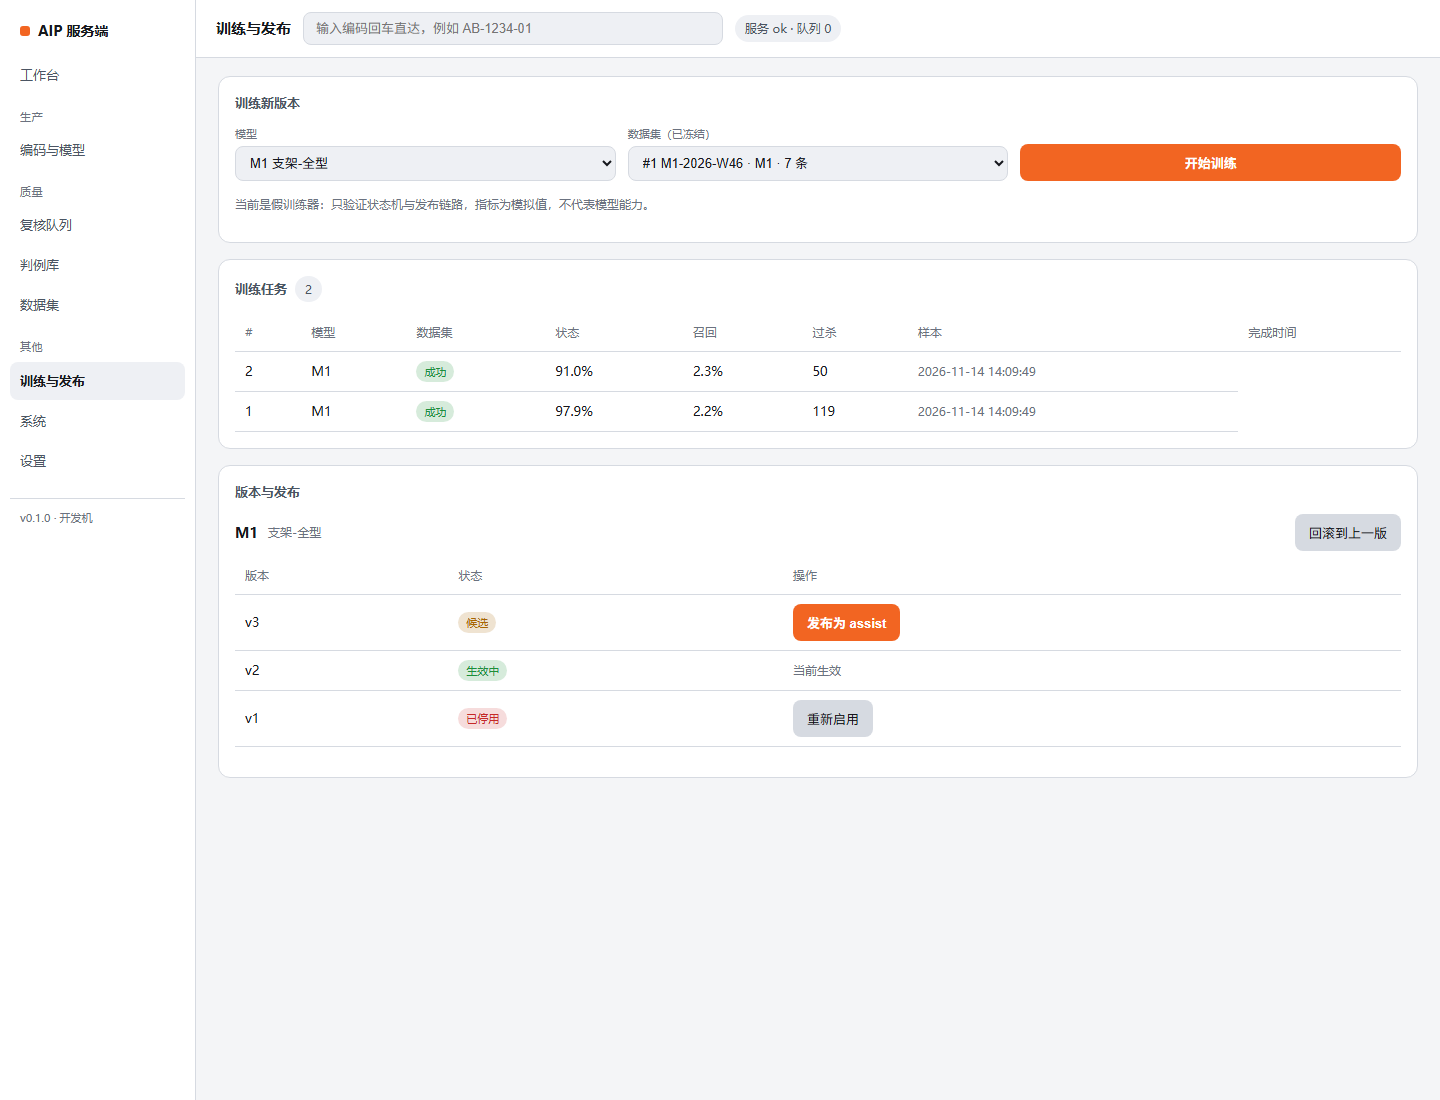
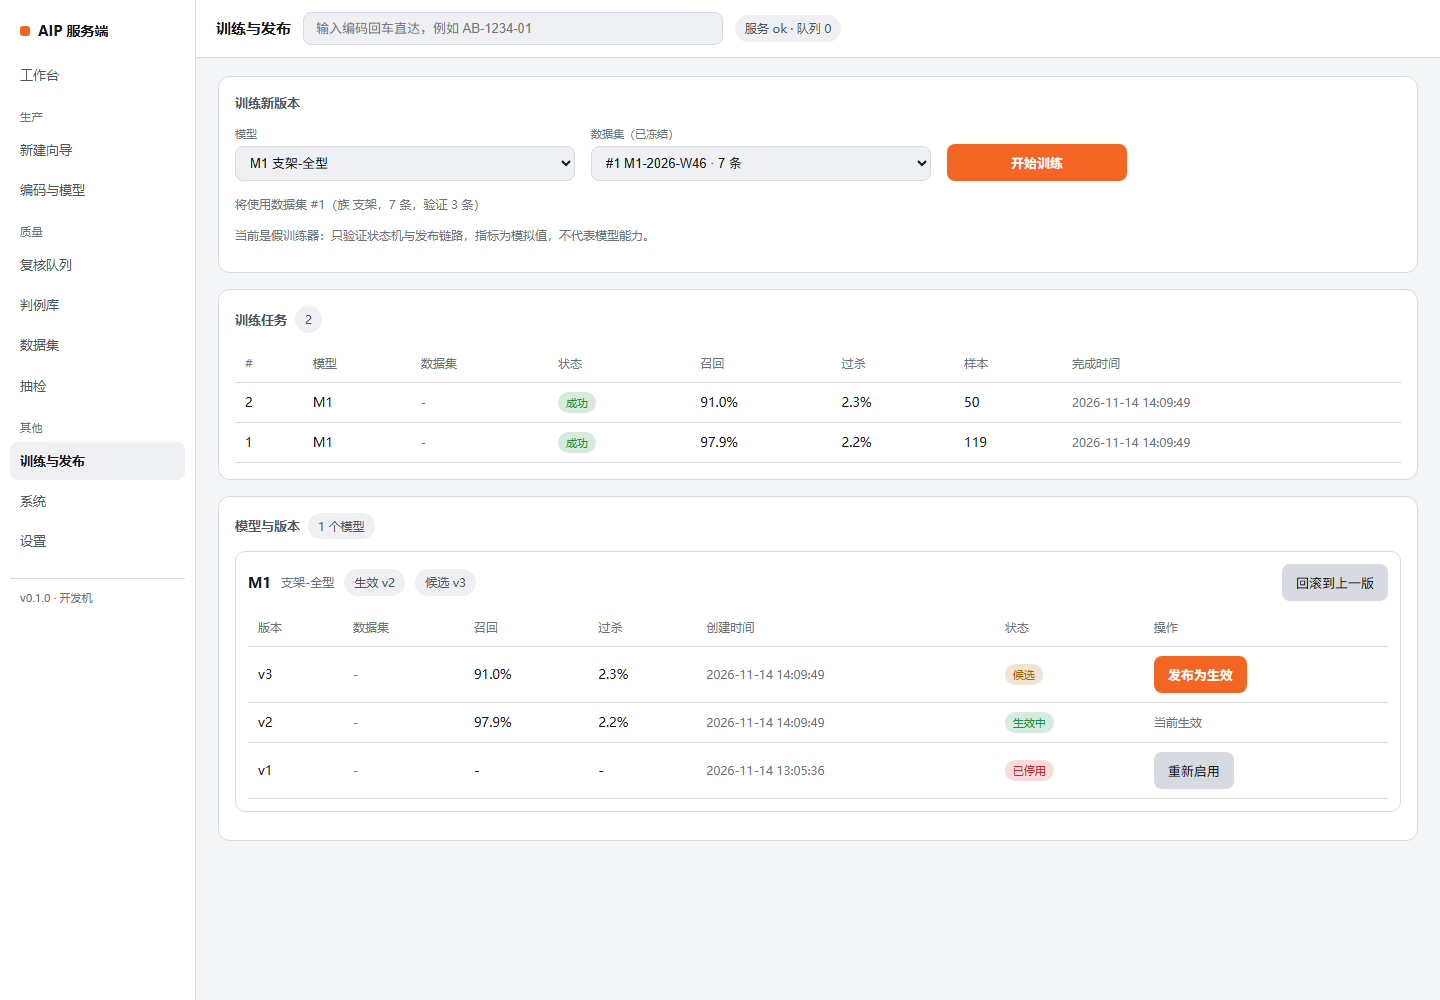
feat: 训练页模型/数据集联动、版本指标与数据集展示；表单收紧、表格按钮加大

diff --git a/aip/web/admin.html b/aip/web/admin.html
@@ -131,6 +131,20 @@
   .refrow img{width:110px;height:110px;object-fit:cover;border-radius:8px;border:1px solid var(--g3);background:var(--g2)}
   .refrow figcaption{font-size:11px;color:var(--t3);margin-top:4px;line-height:1.4}
   .thumb{width:44px;height:44px;object-fit:cover;border-radius:6px;border:1px solid var(--g3);background:var(--g2)}
+  .form-tight{
+    display:grid;
+    grid-template-columns:repeat(2, minmax(260px, 340px)) 180px;
+    gap:16px;
+    align-items:end;
+    justify-content:start;
+    margin-bottom:14px;
+  }
+  .form-tight input,.form-tight select{min-width:0;max-width:340px}
+  .form-tight > div:last-child button{width:180px}
+  .model-block{border:1px solid var(--g3);border-radius:10px;padding:12px;margin-bottom:12px;background:var(--g1)}
+  .model-head{display:flex;align-items:center;gap:10px;margin-bottom:8px;flex-wrap:wrap}
+  .model-block table{margin-top:4px}
+  td button{min-height:38px;padding:8px 14px}
   .savebar{position:sticky;bottom:0;display:flex;align-items:center;gap:12px;background:var(--g1);border:1px solid var(--g3);border-radius:12px;padding:12px 16px;box-shadow:0 -4px 20px rgba(0,0,0,.15)}
   .savebar span{flex:1;color:var(--t2);font-size:13px}
   .wiz-step{border:1px solid var(--g3);border-radius:10px;padding:14px;margin-bottom:10px;opacity:.6}
@@ -259,6 +273,14 @@
 
 <script>
 const $ = (id) => document.getElementById(id);
+window.addEventListener("error", (e) => {
+  const v = document.getElementById("view");
+  if (v) v.innerHTML = `<section><div class="empty">页面脚本异常：${String(e.message || e.error)}<br>请刷新重试</div></section>`;
+});
+window.addEventListener("unhandledrejection", (e) => {
+  const v = document.getElementById("view");
+  if (v) v.innerHTML = `<section><div class="empty">加载失败：${String(e.reason && e.reason.message || e.reason)}</div></section>`;
+});
 const esc = (s) => String(s ?? "").replace(/[&<>"']/g, (c) => ({"&":"&amp;","<":"&lt;",">":"&gt;",'"':"&quot;","'":"&#39;"}[c]));
 
 async function api(path, opts) {
@@ -1736,22 +1758,46 @@ async function renderBlindBatch(id) {
 }
 
 async function renderTraining() {
-  const [jobs, models, datasets] = await Promise.all([api("/api/train"), api("/api/models"), api("/api/datasets")]);
+  const [jobs, models, datasets] = await Promise.all([
+    api("/api/train"), api("/api/models"), api("/api/datasets")
+  ]);
   const frozen = datasets.filter(d => d.status === "frozen");
+
+  const modelOptions = models.map(m => `<option value="${m.id}">${esc(m.code)} ${esc(m.name || "")}</option>`).join("");
+
+  const datasetsFor = (modelId) => frozen.filter(d => d.model_id === modelId);
+
+  const versionRows = (m) => m.versions.map(v => {
+    const ds = v.dataset_id ? `#${v.dataset_id}` : "-";
+    const rec = v.metrics && v.metrics.recall != null ? (v.metrics.recall * 100).toFixed(1) + "%" : "-";
+    const ovk = v.metrics && v.metrics.overkill != null ? (v.metrics.overkill * 100).toFixed(1) + "%" : "-";
+    const action = v.status === "candidate"
+      ? `<button class="act" data-publish="${m.id}:${v.version_no}" data-label="${esc(m.code)} v${v.version_no}">发布为生效</button>`
+      : v.status === "assist" ? '<span class="muted">当前生效</span>'
+      : v.status === "disabled" ? `<button class="ghost" data-revive="${m.id}:${v.version_no}" data-label="${esc(m.code)} v${v.version_no}">重新启用</button>`
+      : "";
+    return `<tr>
+      <td>v${v.version_no}</td>
+      <td class="muted">${ds}</td>
+      <td>${rec}</td>
+      <td>${ovk}</td>
+      <td class="muted">${fmtTime(v.created_at)}</td>
+      <td><span class="tag ${v.status}">${esc(stLabel(v.status))}</span></td>
+      <td>${action}</td>
+    </tr>`;
+  }).join("");
 
   $("view").innerHTML = `
     <section>
       <h2>训练新版本</h2>
-      <div class="form">
+      <div class="form-tight">
         <div><label for="tr_model">模型</label>
-          <select id="tr_model">${models.map(m => `<option value="${m.id}">${esc(m.code)} ${esc(m.name || "")}</option>`).join("")}</select>
-        </div>
+          <select id="tr_model">${modelOptions}</select></div>
         <div><label for="tr_dataset">数据集（已冻结）</label>
-          <select id="tr_dataset">${frozen.map(d => `<option value="${d.id}" data-model="${d.model_id}">#${d.id} ${esc(d.name)} · ${esc(d.model_code)} · ${d.count} 条</option>`).join("")}</select>
-        </div>
+          <select id="tr_dataset"></select></div>
         <div><button class="act" id="btnTrain">开始训练</button></div>
       </div>
-      ${frozen.length === 0 ? '<p class="muted">还没有已冻结的数据集：先去「数据集」建一个并冻结。</p>' : ""}
+      <p class="muted" id="trHint"></p>
       <p class="muted">当前是假训练器：只验证状态机与发布链路，指标为模拟值，不代表模型能力。</p>
     </section>
 
@@ -1762,6 +1808,7 @@ async function renderTraining() {
         <thead><tr><th scope="col">#</th><th scope="col">模型</th><th scope="col">数据集</th><th scope="col">状态</th><th scope="col">召回</th><th scope="col">过杀</th><th scope="col">样本</th><th scope="col">完成时间</th></tr></thead>
         <tbody>${jobs.map(j => `<tr>
           <td>${j.id}</td><td>${esc(j.model_code)}</td>
+          <td class="muted">${j.dataset_id ? "#" + j.dataset_id + " " + esc(j.dataset_name || "") : "-"}</td>
           <td><span class="tag ${j.status === "succeeded" ? "ok" : j.status === "failed" ? "ng" : "gray"}">${esc(stLabel(j.status))}</span></td>
           <td>${j.metrics ? (j.metrics.recall * 100).toFixed(1) + "%" : "-"}</td>
           <td>${j.metrics ? (j.metrics.overkill * 100).toFixed(1) + "%" : "-"}</td>
@@ -1771,50 +1818,65 @@ async function renderTraining() {
     </section>
 
     <section>
-      <h2>版本与发布</h2>
-      ${models.length === 0 ? `<div class="empty">还没有模型。</div>` : models.map(m => `
-        <div style="margin-bottom:14px">
-          <div style="display:flex;align-items:center;gap:10px;margin-bottom:6px">
-            <b>${esc(m.code)}</b><span class="muted">${esc(m.name || "")}</span>
+      <h2>模型与版本 <span class="pill">${models.length} 个模型</span></h2>
+      ${models.length === 0 ? `<div class="empty">还没有模型。</div>` : models.map(m => {
+        const assist = m.versions.find(v => v.status === "assist");
+        const candidate = m.versions.find(v => v.status === "candidate");
+        return `
+        <div class="model-block">
+          <div class="model-head">
+            <b>${esc(m.code)}</b>
+            <span class="muted">${esc(m.name || "")}</span>
+            <span class="pill">${assist ? "生效 v" + assist.version_no : "无生效版本"}</span>
+            ${candidate ? `<span class="pill">候选 v${candidate.version_no}</span>` : ""}
             <span style="margin-left:auto">
-              <button class="ghost" data-rollback="${m.id}">回滚到上一版</button>
+              <button class="ghost" data-rollback="${m.id}" data-label="${esc(m.code)}">回滚到上一版</button>
             </span>
           </div>
           ${m.versions.length === 0 ? '<div class="muted">还没有版本</div>' : `
           <table><caption class="sr-only">${esc(m.code)} 的版本</caption>
-            <thead><tr><th scope="col">版本</th><th scope="col">状态</th><th scope="col">操作</th></tr></thead>
-            <tbody>${m.versions.map(v => `<tr>
-              <td>v${v.version_no}</td>
-              <td><span class="tag ${v.status}">${esc(stLabel(v.status))}</span></td>
-              <td>${v.status === "candidate"
-                ? `<button class="act" data-publish="${m.id}:${v.version_no}">发布为生效</button>`
-                : v.status === "assist" ? '<span class="muted">当前生效</span>'
-                : v.status === "disabled" ? `<button class="ghost" data-revive="${m.id}:${v.version_no}">重新启用</button>`
-                : ""}</td>
-            </tr>`).join("")}</tbody></table>`}
-        </div>`).join("")}
+            <thead><tr><th scope="col">版本</th><th scope="col">数据集</th><th scope="col">召回</th>
+              <th scope="col">过杀</th><th scope="col">创建时间</th><th scope="col">状态</th><th scope="col">操作</th></tr></thead>
+            <tbody>${versionRows(m)}</tbody></table>`}
+        </div>`;
+      }).join("")}
     </section>`;
 
+  const fillDatasets = () => {
+    const mid = Number($("tr_model").value);
+    const list = datasetsFor(mid);
+    $("tr_dataset").innerHTML = list.length
+      ? list.map(d => `<option value="${d.id}">#${d.id} ${esc(d.name)} · ${d.count} 条</option>`).join("")
+      : '<option value="">该模型没有已冻结数据集</option>';
+    $("btnTrain").disabled = list.length === 0;
+    $("trHint").textContent = list.length
+      ? `将使用数据集 #${list[0].id}（族 ${list[0].family || "-"}，${list[0].count} 条，验证 ${list[0].val_ok + list[0].val_ng} 条）`
+      : "先去「数据集」为该模型建一个数据集并冻结。";
+  };
+  $("tr_model").onchange = fillDatasets;
+  fillDatasets();
+
   $("btnTrain").onclick = async () => {
+    const mid = Number($("tr_model").value);
+    const dsId = Number($("tr_dataset").value);
+    if (!dsId) { toast("该模型没有可用的已冻结数据集", true); return; }
     try {
-      const dsId = Number($("tr_dataset").value);
-      if (!dsId) { toast("先选择一个已冻结的数据集", true); return; }
-      const ds = frozen.find(d => d.id === dsId);
-      const r = await post("/api/train", {model_id: ds.model_id, dataset_id: dsId});
-      toast(`已训练出 v${r.version_no}，指标见列表`);
+      const r = await post("/api/train", {model_id: mid, dataset_id: dsId});
+      toast(`已训练出 v${r.version_no}，指标见下方版本表`);
       renderTraining();
     } catch (e) { toast(e.message, true); }
   };
+
   document.querySelectorAll("[data-publish]").forEach(btn => {
     btn.onclick = async () => {
       const [mid, vno] = btn.dataset.publish.split(":");
-      if (!confirm(`发布 ${btn.dataset.name} v${vno}？\n\n验证期进入"生效"后，该模型下所有编码立即使用新版本；旧版本降为已停用。`)) return;
+      if (!confirm(`发布 ${btn.dataset.label}？\n\n发布后该模型下所有编码立即使用新版本；旧版本降为已停用。`)) return;
       try {
         await api(`/api/models/${mid}/versions/${vno}/status`, {
           method: "PUT", headers: {"Content-Type": "application/json"},
           body: JSON.stringify({status: "assist"})
         });
-        toast(`v${vno} 已发布，旧版本自动降为 disabled`); renderTraining();
+        toast(`${btn.dataset.label} 已发布`); renderTraining();
       } catch (e) { toast(e.message, true); }
     };
   });
@@ -1826,7 +1888,7 @@ async function renderTraining() {
           method: "PUT", headers: {"Content-Type": "application/json"},
           body: JSON.stringify({status: "assist"})
         });
-        toast(`v${vno} 重新启用`); renderTraining();
+        toast(`${btn.dataset.label} 重新启用`); renderTraining();
       } catch (e) { toast(e.message, true); }
     };
   });
@@ -1838,7 +1900,7 @@ async function renderTraining() {
       const prev = m && m.versions.filter(v => v.status === "disabled" && cur && v.version_no < cur.version_no)
         .sort((a, b) => b.version_no - a.version_no)[0];
       if (!cur || !prev) { toast("没有可回退的版本", true); return; }
-      if (!confirm(`回滚：v${cur.version_no} → v${prev.version_no}？\n当前版本会降为已停用。`)) return;
+      if (!confirm(`回滚 ${btn.dataset.label}：v${cur.version_no} → v${prev.version_no}？\n当前版本会降为已停用。`)) return;
       try {
         const r = await post(`/api/models/${mid}/rollback`, {});
         toast(`已回滚 v${r.from} → v${r.to}`); renderTraining();
@@ -1847,22 +1909,10 @@ async function renderTraining() {
   });
 }
 
-function renderPlaceholder(title, need, items) {
-  $("view").innerHTML = `
-    <section>
-      <h2>${esc(title)}</h2>
-      <div class="empty">
-        这一页需要先补后端：<b>${esc(need)}</b>
-        <ul style="margin:10px 0 0 18px;line-height:2">${items.map(i => `<li>${i}</li>`).join("")}</ul>
-      </div>
-    </section>`;
-}
-
-/* ---------- 路由 ---------- */
-
 const TITLES = {
-  workbench: "工作台", wizard: "新建向导", catalog: "编码与模型", quality: "复核队列", cases: "判例库",
-  datasets: "数据集", blind: "抽检", training: "训练与发布", system: "系统", settings: "设置"
+  workbench: "工作台", wizard: "新建向导", catalog: "编码与模型", quality: "复核队列",
+  cases: "判例库", datasets: "数据集", blind: "抽检",
+  training: "训练与发布", system: "系统", settings: "设置"
 };
 
 async function route() {

diff --git a/aip/src/aip/api/routes_admin.py b/aip/src/aip/api/routes_admin.py
@@ -91,8 +91,8 @@ def list_models(conn: sqlite3.Connection = Depends(get_conn)) -> list[dict]:
     out: list[dict] = []
     for m in models:
         versions = conn.execute(
-            "SELECT version_no, status, created_at FROM model_version"
-            " WHERE model_id = ? ORDER BY version_no DESC",
+            "SELECT version_no, status, created_at, metrics_json, dataset_id"
+            " FROM model_version WHERE model_id = ? ORDER BY version_no DESC",
             (m["id"],),
         ).fetchall()
         out.append(
@@ -101,7 +101,16 @@ def list_models(conn: sqlite3.Connection = Depends(get_conn)) -> list[dict]:
                 "code": m["code"],
                 "name": m["name"],
                 "archived_at": m["archived_at"],
-                "versions": [dict(v) for v in versions],
+                "versions": [
+                    {
+                        "version_no": v["version_no"],
+                        "status": v["status"],
+                        "created_at": v["created_at"],
+                        "dataset_id": v["dataset_id"],
+                        "metrics": json.loads(v["metrics_json"]) if v["metrics_json"] else None,
+                    }
+                    for v in versions
+                ],
             }
         )
     return out

diff --git a/aip/src/aip/datasets.py b/aip/src/aip/datasets.py
@@ -238,7 +238,7 @@ def get_dataset(conn: sqlite3.Connection, dataset_id: int) -> dict:
 
 def list_datasets(conn: sqlite3.Connection, limit: int = 100) -> list[dict]:
     rows = conn.execute(
-        "SELECT d.id, d.name, d.status, d.checksum, d.frozen_at, d.created_at,"
+        "SELECT d.id, d.name, d.model_id, d.status, d.checksum, d.frozen_at, d.created_at,"
         " f.name AS family, m.code AS model_code,"
         " (SELECT count(*) FROM dataset_item i WHERE i.dataset_id = d.id) AS count,"
         " (SELECT count(*) FROM dataset_item i JOIN case_item c ON c.id = i.case_id"
